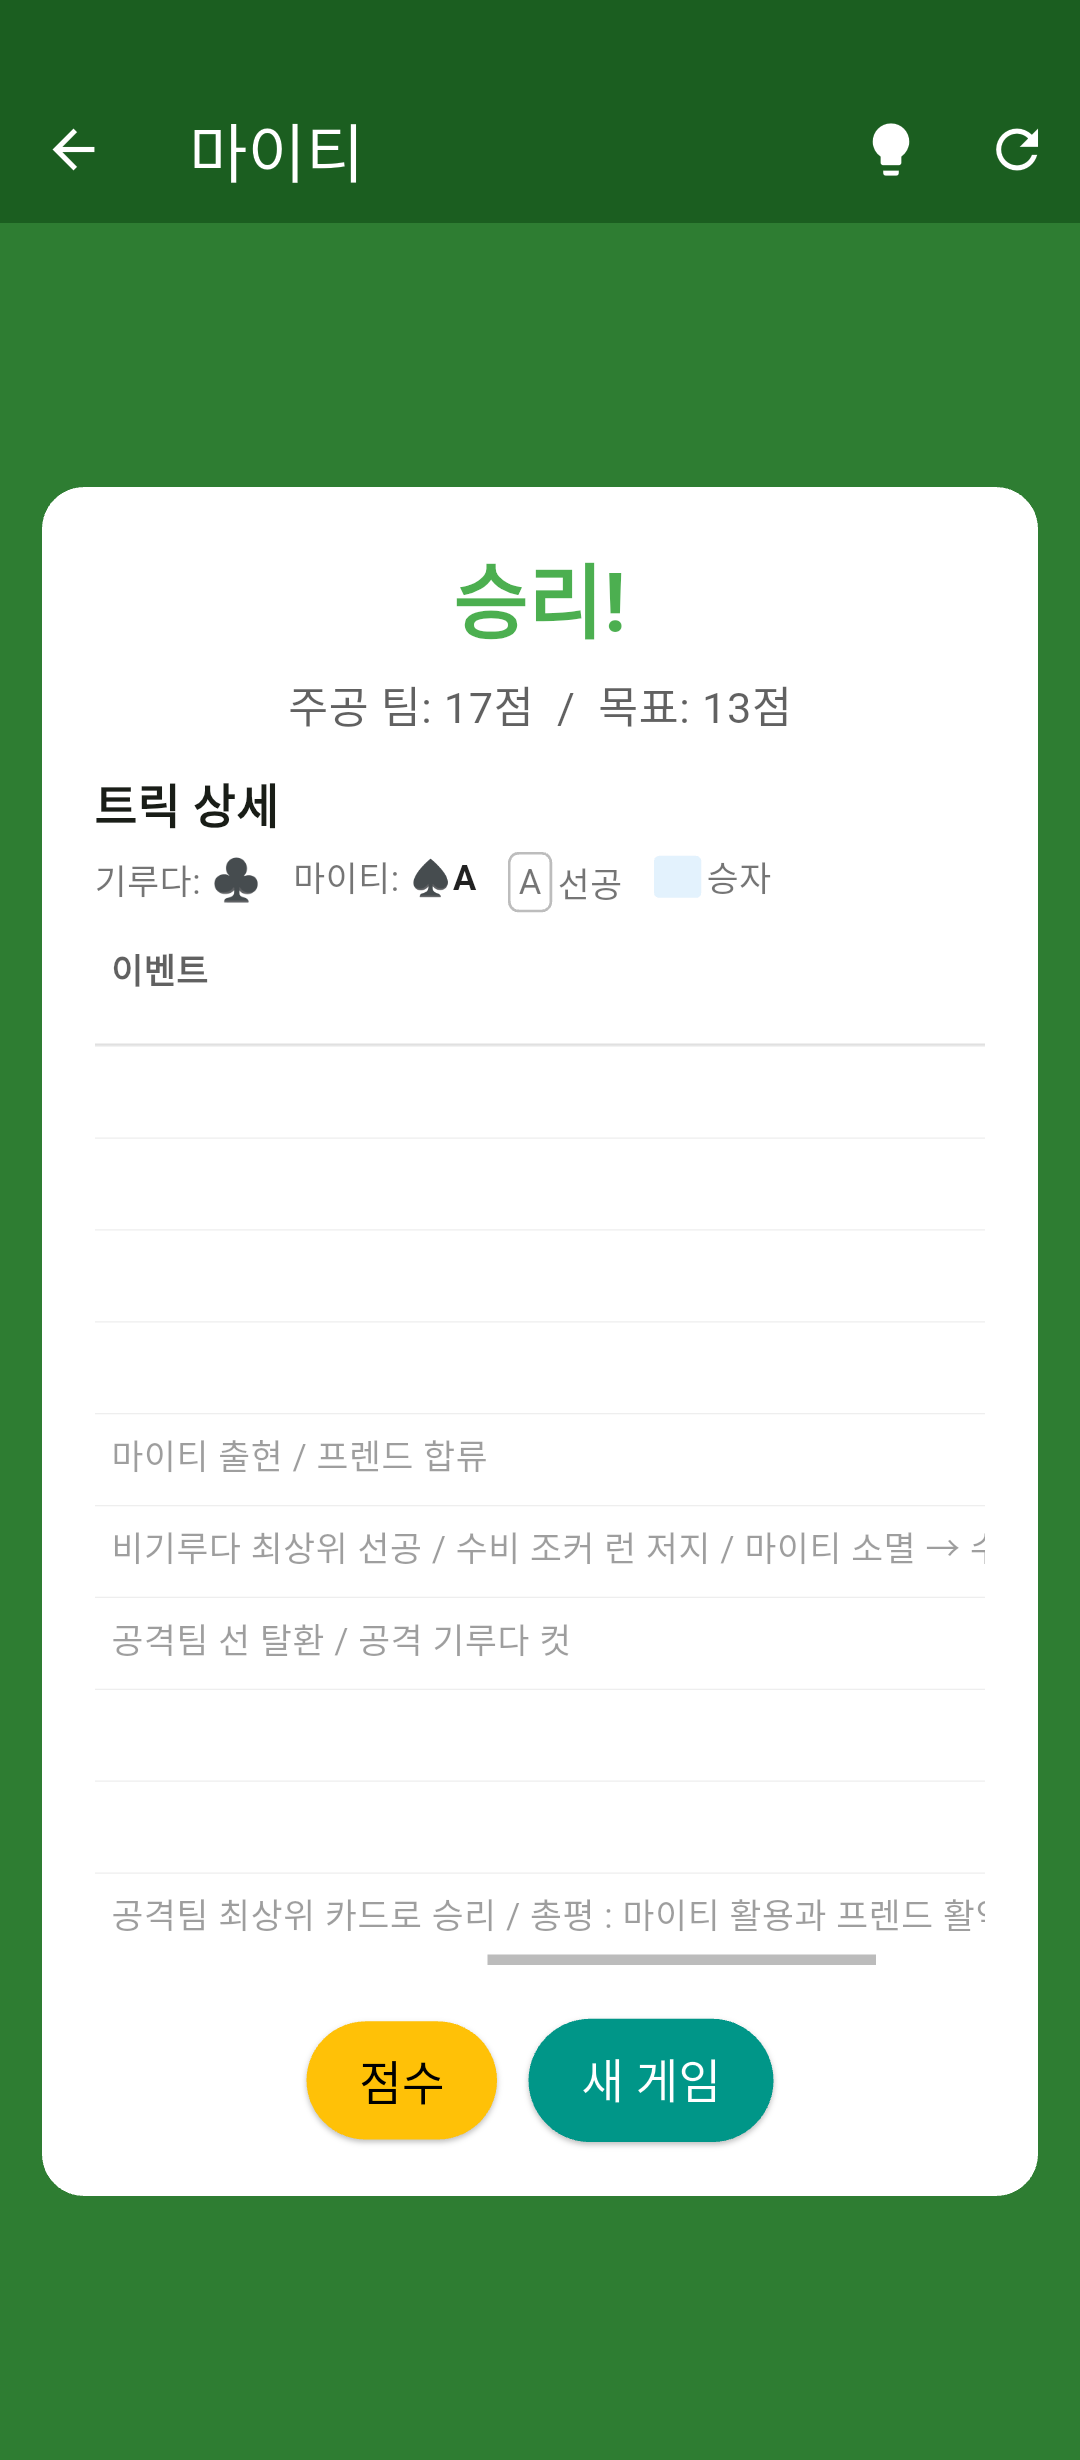
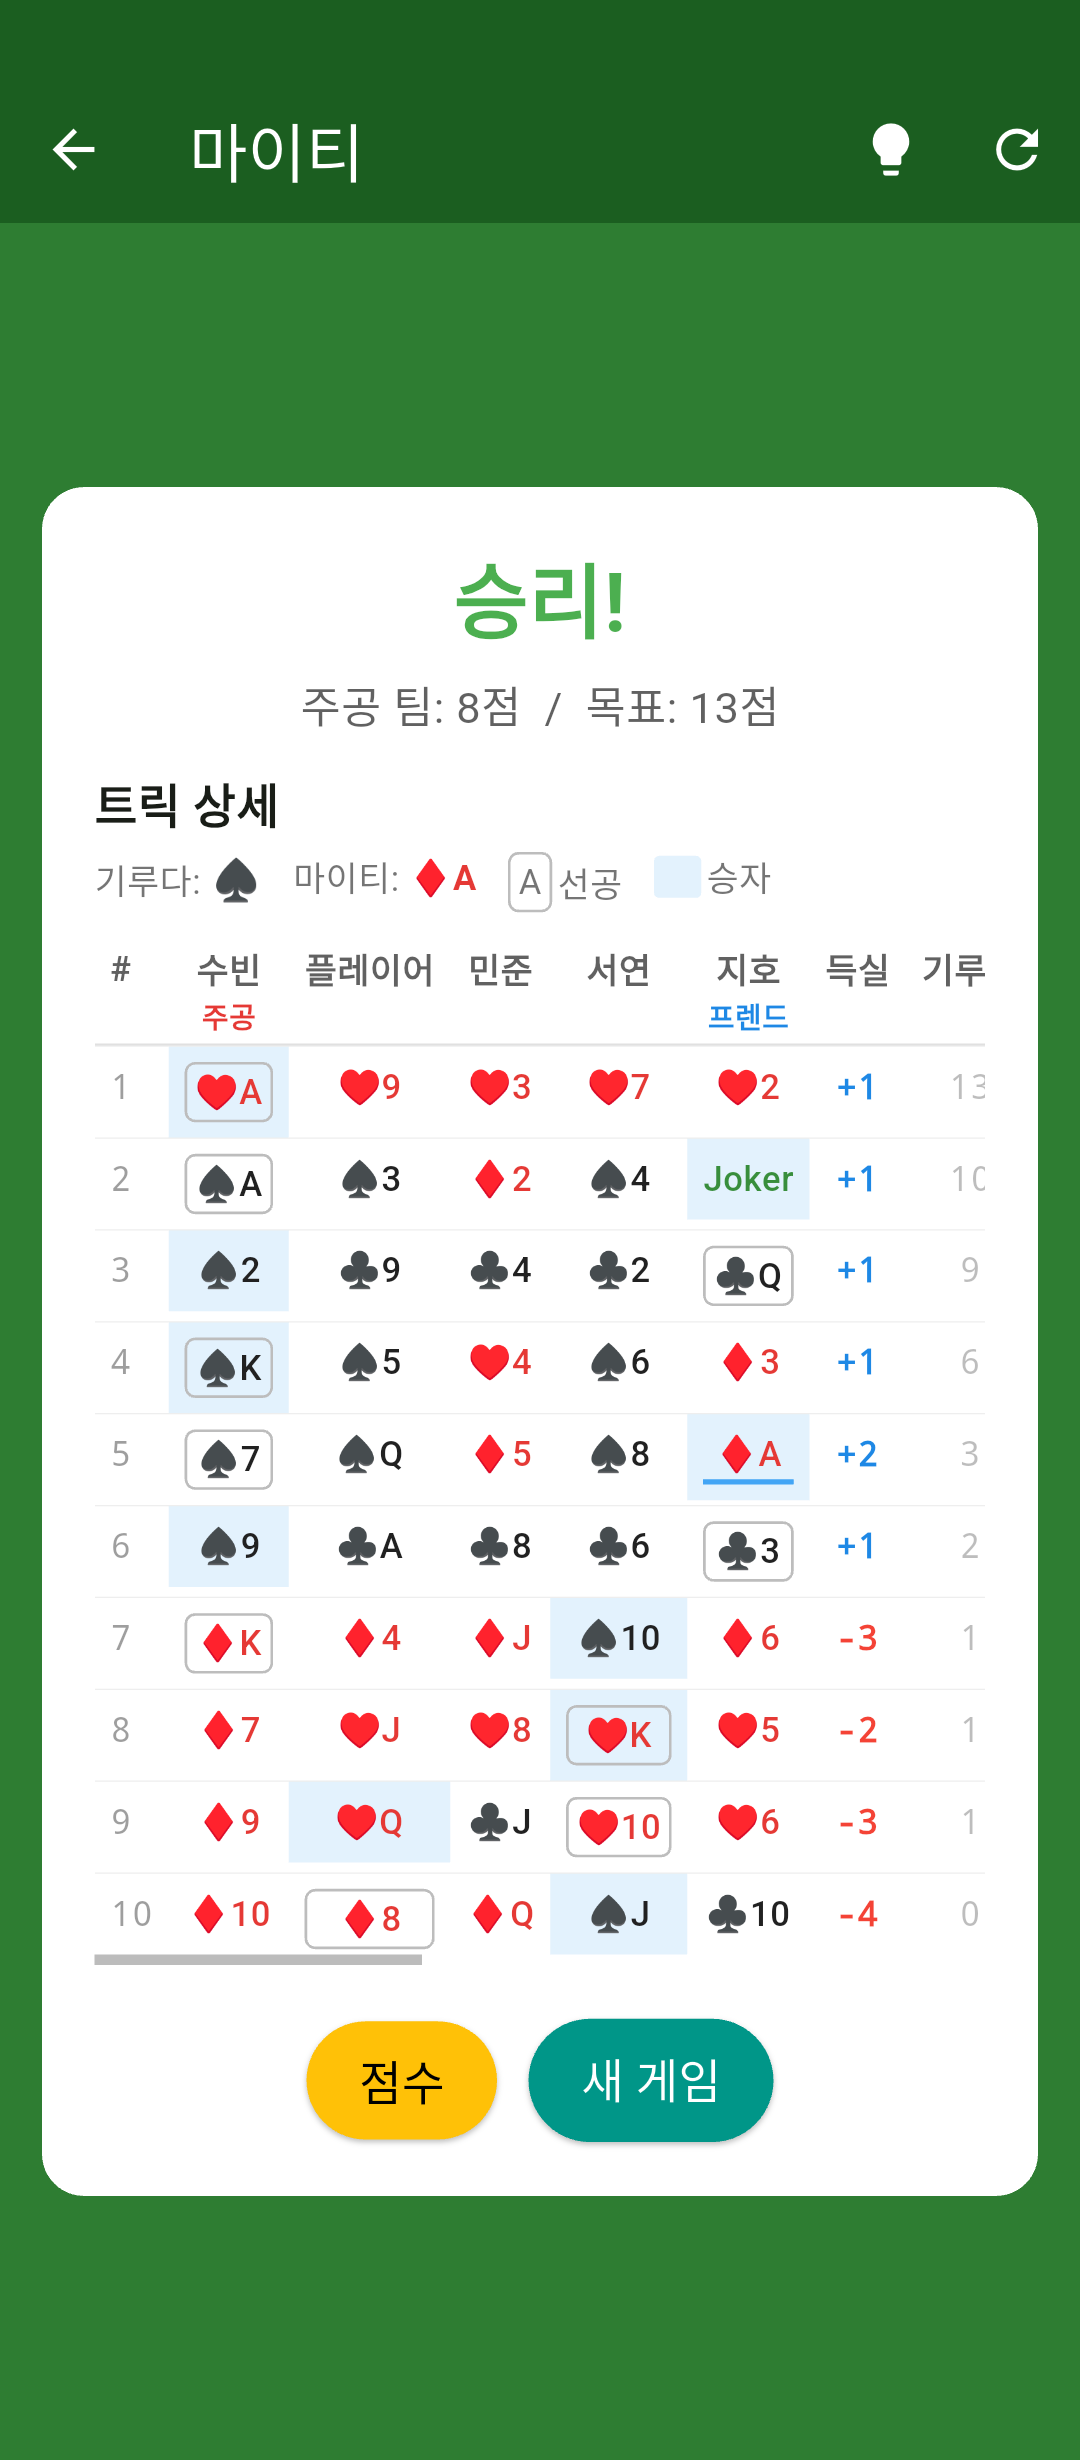
프렌드 유도 개선: 기루다 무늬 프렌드 이벤트 분류 + AI 프렌드 합류 로직 추가

diff --git a/lib/services/game_controller.dart b/lib/services/game_controller.dart
@@ -1136,6 +1136,14 @@ class GameController extends ChangeNotifier {
       if (_isTopOfSuit(card)) {
         return LeadIntent.topGirudaLead;
       }
+      // 주공이 중간 기루다로 프렌드 유도 (프렌드 카드가 기루다 무늬인 경우)
+      if (humanPlayer.isDeclarer && _state.friendDeclaration?.card != null &&
+          !_state.isFriendRevealed) {
+        final fCard = _state.friendDeclaration!.card!;
+        if (!fCard.isJoker && fCard.suit == _state.giruda) {
+          return LeadIntent.declarerFriendLure;
+        }
+      }
       return LeadIntent.midGirudaLead;
     }
 
@@ -1144,6 +1152,16 @@ class GameController extends ChangeNotifier {
         _state.mighty.suit != null && card.suit == _state.mighty.suit &&
         !_state.isMightyPlayed) {
       return LeadIntent.defenseMightySuitBait;
+    }
+
+    // 주공 프렌드 유도: 주공이 프렌드 카드 무늬로 선공 (프렌드 미공개 시)
+    // 초구 포함 모든 트릭에서 감지
+    if (humanPlayer.isDeclarer && _state.friendDeclaration?.card != null) {
+      final fCard = _state.friendDeclaration!.card!;
+      if (!fCard.isJoker && fCard.suit != null &&
+          card.suit == fCard.suit && !_state.isFriendRevealed) {
+        return LeadIntent.declarerFriendLure;
+      }
     }
 
     // 초구 처리
@@ -1155,15 +1173,6 @@ class GameController extends ChangeNotifier {
         return LeadIntent.firstTrickTopAttack;
       }
       return LeadIntent.firstTrickWaste;
-    }
-
-    // 주공 프렌드 유도: 주공이 프렌드 카드 무늬로 선공 (프렌드 미공개 시)
-    if (humanPlayer.isDeclarer && _state.friendDeclaration?.card != null) {
-      final fCard = _state.friendDeclaration!.card!;
-      if (!fCard.isJoker && fCard.suit != null &&
-          card.suit == fCard.suit && !_state.isFriendRevealed) {
-        return LeadIntent.declarerFriendLure;
-      }
     }
 
     // 비기루다 최상위 카드 확인 (Ace 또는 상위 카드 소진 후 현재 최상위)

diff --git a/lib/services/ai_player.dart b/lib/services/ai_player.dart
@@ -4901,7 +4901,20 @@ class AIPlayer {
           }
         }
 
-        // 조건 3: 주공 선공 + 프렌드 카드가 마이티/조커 → 선 확보 필수
+        // 조건 3: 주공 선공 + 프렌드 카드가 일반 카드 + 리드 무늬와 같음 → 프렌드 합류
+        // 주공이 프렌드 카드 무늬로 선공하면 프렌드를 유도하는 신호
+        if (state.currentTrick!.playerOrder.isNotEmpty &&
+            state.currentTrick!.playerOrder[0] == state.declarerId &&
+            !friendCard.isJoker && !friendCard.isMightyWith(state.giruda) &&
+            friendCard.suit == leadSuit) {
+          // 프렌드 카드로 이길 수 있으면 합류
+          if (currentWinningCard != null &&
+              state.isCardStronger(friendCard, currentWinningCard, leadSuit, false)) {
+            return friendCard;
+          }
+        }
+
+        // 조건 4: 주공 선공 + 프렌드 카드가 마이티/조커 → 선 확보 필수
         // 비프렌드 카드로 확실히 이기면 프렌드 카드 온존, 못 이기면 프렌드 카드 사용
         // 마이티/조커는 무늬 무관 강력 → 확실한 대안 없을 때의 최종 보장
         // ★ 마이티는 트릭 1에서도 사용 가능, 조커만 트릭 1 제한
